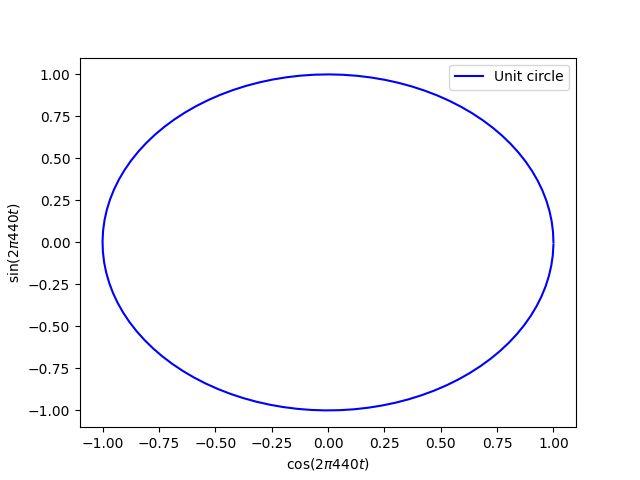
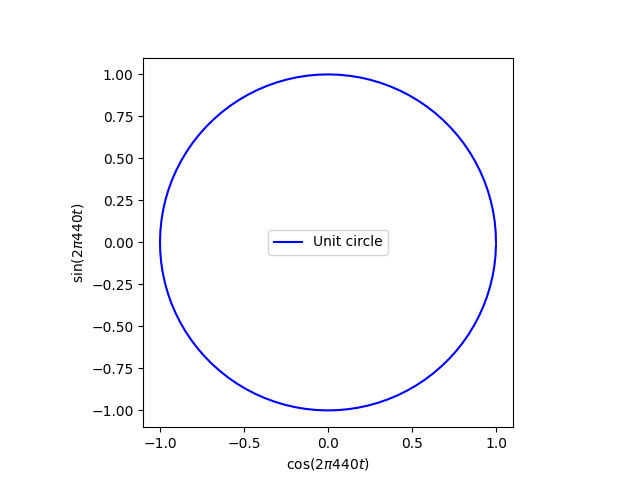
removed import sys from python example

diff --git a/ch08/text8.tex b/ch08/text8.tex
@@ -28,7 +28,7 @@ I've used a hat to signify that the symbol $\hat{x}(\omega)$ is a frequency doma
 The existence or non-existence of a Fourier transform or an inverse Fourier transform is rarely something that is encountered in signal processing applications. Exploring this topic rigorously is outside the scope of this course.
 
 \section{Selected Fourier transforms}
-It is impossible to exhaustively cover all the possible Fourier transform pairs here. We'll only give examples of commonly encountered Fourier transforms and provide solution strategies for using these as basic building blocks to evaluate the Fourier transform for more complicated signals. Refer to a formula book\sidenote{The wikipedia article also contains a nice table of Fourier transform pairs:\url{https://en.wikipedia.org/wiki/Fourier_transform}.}\cite{kammler2007firs} for a more complete table of Fourier transform pairs.
+It is impossible to exhaustively cover all the possible Fourier transform pairs here. We'll only give examples of commonly encountered Fourier transforms and provide solution strategies for using these as basic building blocks to evaluate the Fourier transform for more complicated signals. Refer to a formula book\sidenote{The wikipedia article also contains a nice table of Fourier transform pairs:\url{https://en.wikipedia.org/wiki/Fourier_transform}.}\cite{kammler2007first} for a more complete table of Fourier transform pairs.
 
 \subsection{Linear combination}
 The Fourier transform of a linear combination of signals in time domain is related to a linear combination of Fourier transforms in frequency domain:

diff --git a/ch02/solutions2.tex b/ch02/solutions2.tex
@@ -16,10 +16,11 @@ On Windows and MacOS, I don't know...? Google it, I guess. You can also just dow
       The documentation for \verb|n.exp| can be found here \url{https://numpy.org/doc/stable/reference/generated/numpy.exp.html}.
       The function simply computes $e^{x}$, where $x$ can be real or complex, or even a NumPy array. If so, a NumPy array is returned. 
 \item Listing \ref{circle_plot} now plots a circle. 
-\lstinputlisting[language=Python,caption=Code is modified to plot a circle,label=circle_plot]{ch02/code/ex2_2.py}
+\lstinputlisting[language=Python,caption=Code is modified to plot a circle,label=circle_plot,linerange={0-24}]{ch02/code/ex2_2.py}
 
 \begin{marginfigure}
-\includegraphics[width=6.5cm,height=6.0cm]{ch02/figures/circle_plot.png}
+%\includegraphics[width=6.5cm,height=6.0cm]{ch02/figures/circle_plot.png}
+\includegraphics[width=\textwidth]{ch02/figures/circle_plot.png}
 \caption{Output of Listing \ref{circle_plot}}
 \end{marginfigure}
 

diff --git a/ch02/text2.tex b/ch02/text2.tex
@@ -90,12 +90,18 @@ these lecture notes, you can also use git on the command line:
 \begin{lstlisting}[language=sh,caption=Obtaining the source code for the programming examples with git,label=lst:download]
 git clone https://github.com/jvierine/signal_processing
 \end{lstlisting}
+\begin{marginfigure}
+\includegraphics[width=\textwidth]{ch02/figures/downloadgit.png}
+\caption{If you are not familiar with git, you can easily download the code from the GitHub webpage as a zip file instead of using the git clone command.}
+\end{marginfigure}
 If you are using Anaconda, you will have to install git (if you don't
 have it already) by typing in
 \begin{lstlisting}[language=sh,caption=Obtaining the source code for the programming examples with git,label=lst:download]
   conda install -c anaconda git
 \end{lstlisting}
 Then you can proceed with the command shown above. 
+
+
 
 \begin{marginfigure}
 \includegraphics[width=0.68\textwidth]{ch02/figures/gitlogo.png}

diff --git a/ch02/code/ex2_2.py b/ch02/code/ex2_2.py
@@ -12,14 +12,15 @@ t = n.arange(101)/sample_rate # <-- added 101 to obtain the full circle
 
 csin = n.exp(1j*2.0*n.pi*440.0*t) # A 440 Hz signal
 
+# make axis aspect ratio equal for visually pleasing output
+plt.axes().set_aspect('equal')
+
 # plot a circle using the real and imaginary part of e^(i*2*pi*440*t)
 plt.plot(csin.real,csin.imag,color="blue",label="Unit circle")
 
 plt.xlabel("$\cos(2\pi440t)$")
 plt.ylabel("$\sin(2\pi440t)$")
 plt.legend()
-# make axis aspect ratio equal for visually pleasing output
-plt.axes().set_aspect('equal')
 # call this if needed
 # plt.show()
 try:

diff --git a/ch02/exercises2.tex b/ch02/exercises2.tex
@@ -1,5 +1,5 @@
 \newpage
-\section{Exercises}
+\section{Exercises: Python}
 
 These exercises are intended to get you started with programming with
 \emph{\index{Python}{Python}} and the \emph{\index{NumPy}{NumPy}} and
